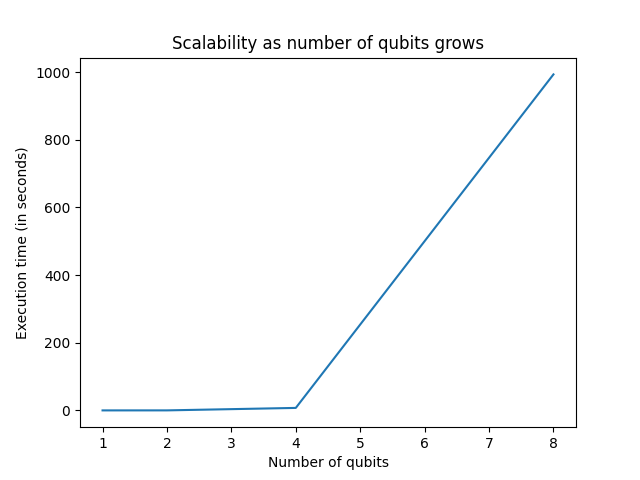
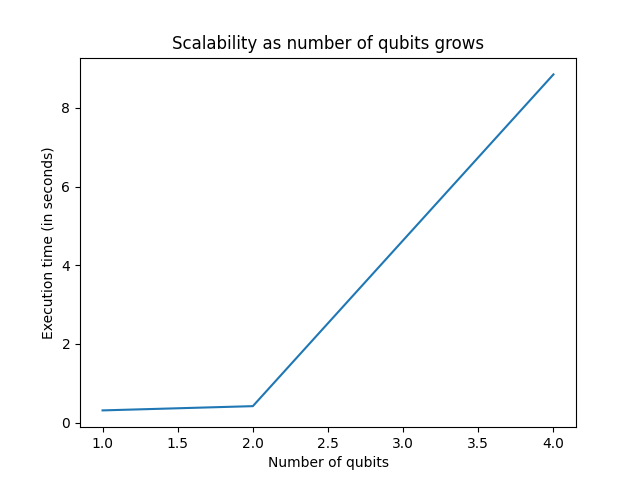
Plotting updates

diff --git a/PyQuil/grover.py b/PyQuil/grover.py
@@ -146,12 +146,12 @@ if __name__ == '__main__':
 		print_results("Constant 0", zero, result, time.time() - start_time, trials, n)
 
 		exec_times = []
-		for n_test in [1, 2, 4, 8]:
+		for n_test in [1, 2, 4]:
 			start_time = time.time()
 			p = grover_program(get_Z_f(f, n_test), get_Z_0(n_test), n_test)
 			result = qc.run_and_measure(p, trials=1)
 			exec_times.append(time.time() - start_time)
-		plt.plot([1, 2, 4, 8], exec_times)
+		plt.plot([1, 2, 4], exec_times)
 		plt.xlabel('Number of qubits')
 		plt.ylabel('Execution time (in seconds)')
 		plt.title('Scalability as number of qubits grows')

diff --git a/PyQuil/deutsch_jozsa.py b/PyQuil/deutsch_jozsa.py
@@ -147,12 +147,12 @@ if __name__ == '__main__':
 		print_results('XOR-reduce', result, time.time() - start_time, trials, n)
 
 		exec_times = []
-		for n_test in [1, 2, 4, 8]:
+		for n_test in [1, 2, 4]:
 			start_time = time.time()
 			p = dj_program(get_U_f(one, n_test), n_test)
 			result = qc.run_and_measure(p, trials=1)
 			exec_times.append(time.time() - start_time)
-		plt.plot([1, 2, 4, 8], exec_times)
+		plt.plot([1, 2, 4], exec_times)
 		plt.xlabel('Number of qubits')
 		plt.ylabel('Execution time (in seconds)')
 		plt.title('Scalability as number of qubits grows')
